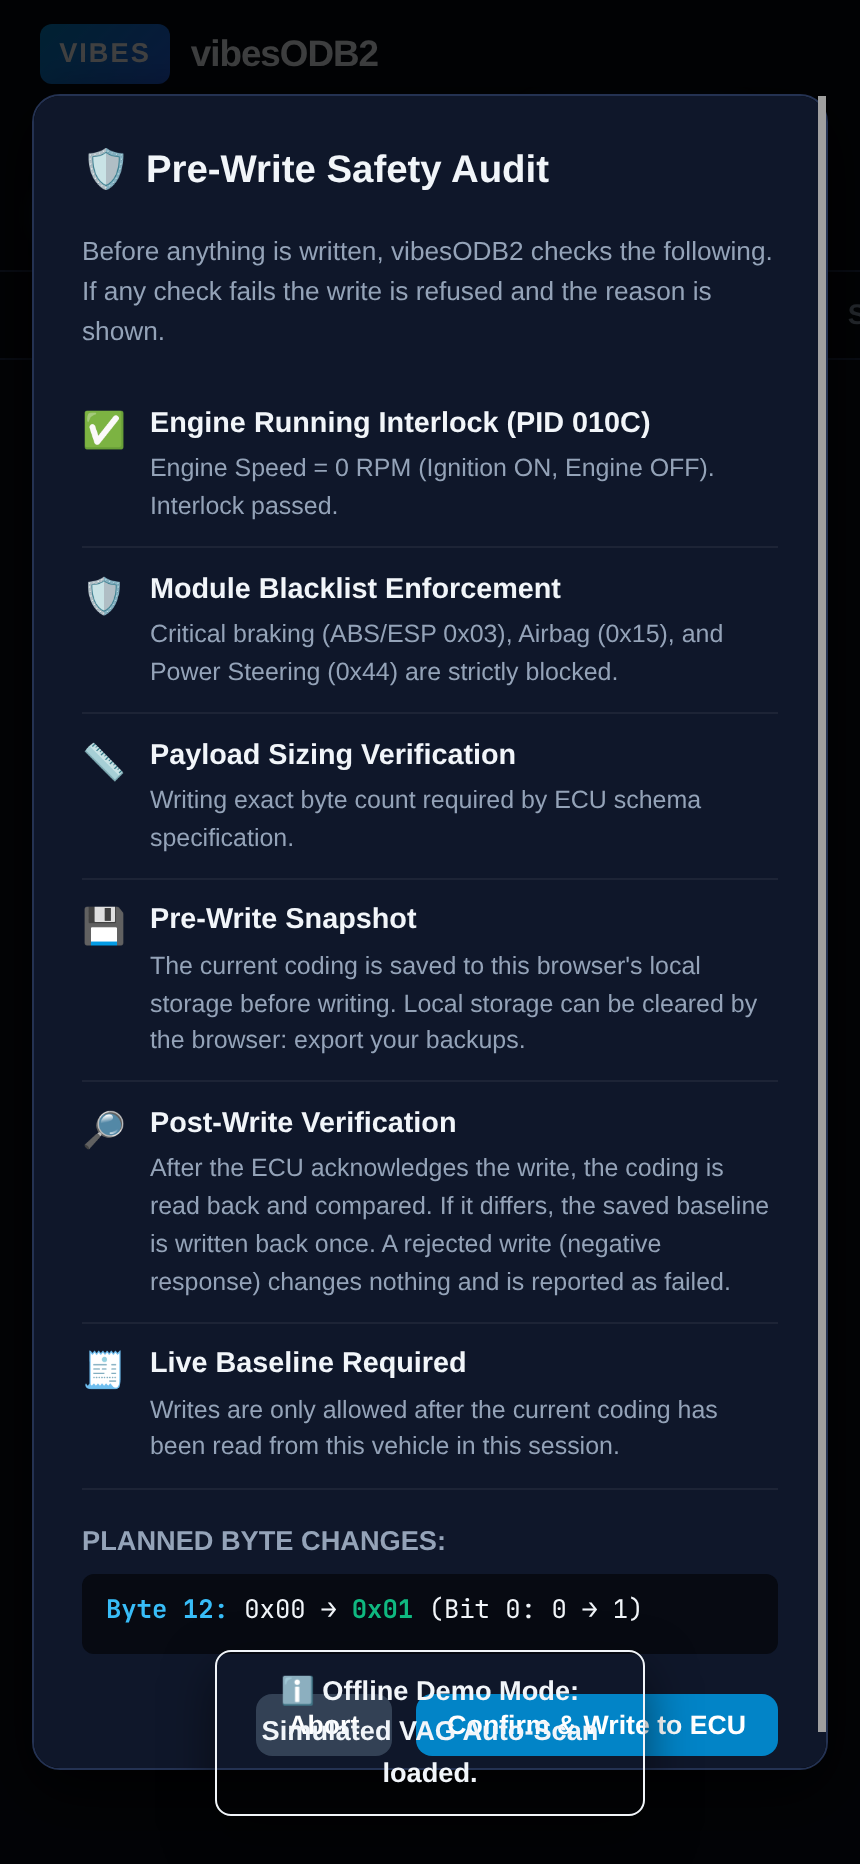
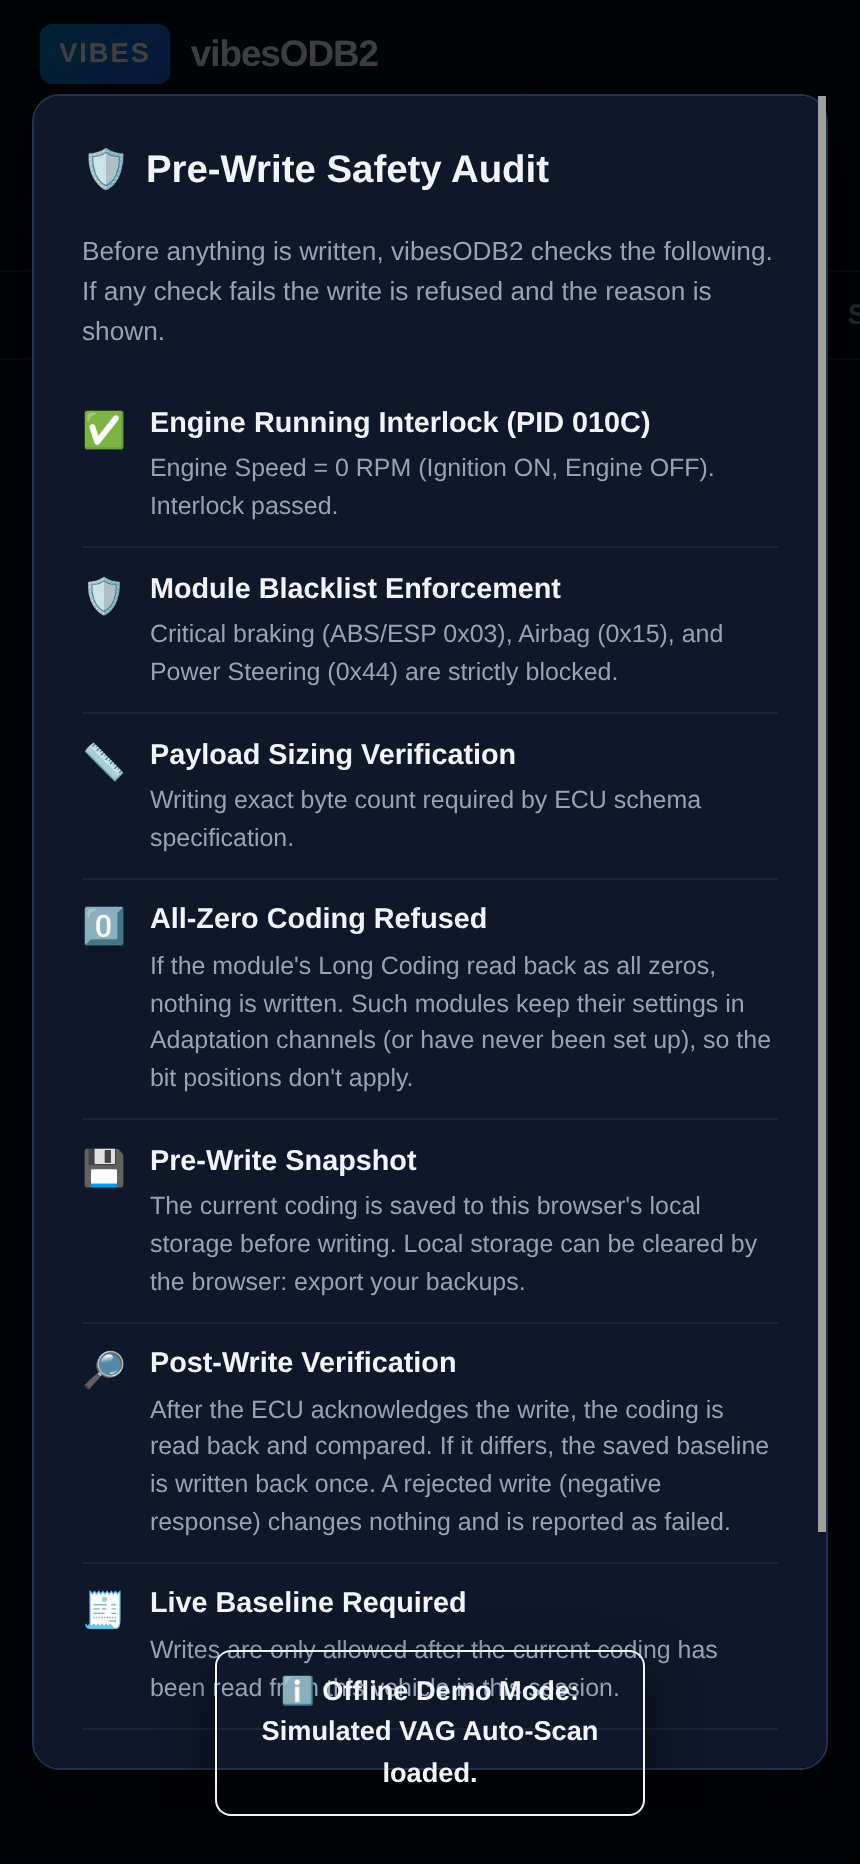
Refuse writes and stop showing features as OFF when Long Coding reads as all zeros
Facelift MQB central electrics modules (and never-configured replacement modules)
return an all-zero 0x0600 block because their settings are held in Adaptation
channels. The Feature Coding tab showed every feature as Disabled, which was not
true, and toggles would have attempted a bit write against a meaningless baseline.

- safety.js / guardrails.py: new non-zero baseline check (AllZeroBaselineError)
- app.js: isAdaptationOnlyBaseline locks writes, shows an explanatory notice
  instead of OFF badges, warns after the read, gates the hex write button
- Safety modal, README and ADVANCED updated; SW cache v28

diff --git a/pwa/js/app.js b/pwa/js/app.js
@@ -259,9 +259,18 @@ class VibesApp {
   //   - ignition is OFF (ECU powered down or sleeping, EEPROM writes will fail or corrupt)
   //   - engine is running (ECU may be in diagnostic lockout, unstable operating conditions)
   //   - ignition state is unknown (no bus ping response yet — treat as unsafe)
+  get isAdaptationOnlyBaseline() {
+    return !!(
+      this.hasCapturedBaseline &&
+      this.baselineBytes &&
+      this.baselineBytes.length > 0 &&
+      this.baselineBytes.every(b => b === 0)
+    );
+  }
+
   get isWritable() {
     const connected = !!(this.bleTransport && this.bleTransport.isConnected);
-    return connected && this.ignitionState === 'on' && this.hasCapturedBaseline;
+    return connected && this.ignitionState === 'on' && this.hasCapturedBaseline && !this.isAdaptationOnlyBaseline;
   }
 
   get isWriteBlockedReason() {
@@ -278,7 +287,10 @@ class VibesApp {
       return 'Ignition state is unknown. Wait for the adapter to detect the vehicle bus, or press "Check Ignition".';
     }
     if (!this.hasCapturedBaseline) {
-      return 'No live coding has been read from this vehicle yet. Tap "Read Live Coding" first so changes are based on the real ECU state.';
+      return 'No live coding has been read from this vehicle yet. Tap "Read Vehicle Long Coding" first so changes are based on the real ECU state.';
+    }
+    if (this.isAdaptationOnlyBaseline) {
+      return 'This module returned an all-zero Long Coding block (0x0600 = 00...00). On facelift VAG modules (such as MY2017+ MQB BCM 0x09), settings live in UDS Adaptation channels rather than Long Coding—writes to 0x0600 are locked.';
     }
     return 'Cannot write: vehicle bus is not responding.';
   }
@@ -2375,6 +2387,11 @@ class VibesApp {
         this.renderBitSwitches();
         this.renderFeatureList();
 
+        if (this.isAdaptationOnlyBaseline) {
+          this.showToast(`⚠ Module ${targetMod} returned ${liveCoding.length} bytes of zeros. Its settings are not stored in Long Coding, so feature states cannot be shown and writing is locked.`, 'warning', 8000);
+          return true;
+        }
+
         const msg = isAutoBaseline 
           ? `🛡 Baseline Snapshot #${backup.id} captured (${liveCoding.length} bytes)! Features synchronized with vehicle.`
           : `✅ Vehicle Long Coding successfully read (${liveCoding.length} bytes)! Features updated.`;
@@ -2574,6 +2591,22 @@ class VibesApp {
       btnUnsupported.style.display = unsupportedCount > 0 ? 'inline-block' : 'none';
     }
     if (bytesLenEl) bytesLenEl.textContent = this.currentBytes.length;
+
+    // An all-zero Long Coding block does not mean every feature is off: on these modules the
+    // settings are held elsewhere (Adaptation channels), so bit positions here say nothing.
+    if (this.isAdaptationOnlyBaseline) {
+      if (countActiveEl) countActiveEl.textContent = '?';
+      if (countInactiveEl) countInactiveEl.textContent = '?';
+      const modAddr = this.currentSchema.module_address || '0x09';
+      container.innerHTML = `
+        <div id="coding-adaptation-only-notice" style="padding: 1rem 1.1rem; border-radius: 8px; background: rgba(245, 158, 11, 0.1); border: 1px solid rgba(245, 158, 11, 0.4); color: #fde68a; font-size: 0.85rem; line-height: 1.5;">
+          <h4 style="margin: 0 0 0.4rem 0; color: #fbbf24; font-size: 0.95rem;">⚠ This module does not use Long Coding for these settings</h4>
+          <p style="margin: 0 0 0.5rem 0;">Module <strong>${modAddr}</strong> answered the Long Coding read with <strong>${this.currentBytes.length} bytes of zeros</strong>. That does not mean your features are switched off. Later modules (for example the central electrics unit on many 2017-onward MQB cars) keep comfort and lighting options in <strong>Adaptation channels</strong> instead, so the byte/bit positions in this schema don't apply.</p>
+          <p style="margin: 0 0 0.5rem 0;">vibesODB2 can't read or change Adaptation channels yet, so feature states are not shown and writing to this module is locked.</p>
+          <p style="margin: 0; color: #cbd5e1; font-size: 0.78rem;">You can check the raw bytes on the Byte Matrix tab. A replacement module that has never been set up can also read as all zeros.</p>
+        </div>`;
+      return;
+    }
 
     let displayFeatures = allFeatures;
     if (this.featureFilter === 'active') {
@@ -2818,6 +2851,10 @@ class VibesApp {
 
     if (applyBtn && rawInput) {
       applyBtn.addEventListener('click', () => {
+        if (!this.isWritable) {
+          this.showToast(this.isWriteBlockedReason, 'warning');
+          return;
+        }
         try {
           const modBytes = hexStringToBytes(rawInput.value);
           if (modBytes.length !== this.currentBytes.length) {

diff --git a/pwa/js/safety.js b/pwa/js/safety.js
@@ -117,6 +117,23 @@ export class SafetyPipeline {
       detail: `Strict size match (${baseBytes} bytes).`
     });
 
+    // Guardrail 3b: Non-Zero Coding Baseline (Adaptation-Only / Unparameterized Interlock)
+    // MY2017+ facelift modules (e.g. MQB BCM 5Q0937084C*/D*) return an all-zero 0x0600 block
+    // because configuration moved to UDS Adaptation channels; virgin replacement ECUs also read
+    // all zeros. Bit-toggling Long Coding against an all-zero baseline is never valid.
+    const cleanBaseHex = (baselineHex || '').replace(/\s+/g, '');
+    if (cleanBaseHex.length > 0 && /^0+$/.test(cleanBaseHex)) {
+      return fail(
+        'Non-Zero Coding Baseline',
+        'Adaptation-Only / All-Zero Coding Interlock: Module returned an all-zero Long Coding block (0x0600 = 00...00). On facelift VAG modules (such as MY2017+ MQB BCM 0x09), settings live in UDS Adaptation channels rather than Long Coding; writes to an all-zero coding block are refused.'
+      );
+    }
+    auditReport.checks.push({
+      name: 'Non-Zero Coding Baseline',
+      passed: true,
+      detail: 'Module reports active non-zero Long Coding.'
+    });
+
     // Guardrail 4: Mandatory Snapshot Table Record
     try {
       const backup = await saveBackup({

diff --git a/pwa/index.html b/pwa/index.html
@@ -623,6 +623,14 @@
       </div>
 
       <div class="check-item">
+        <div class="check-icon">0⃣</div>
+        <div class="check-text">
+          <h5>All-Zero Coding Refused</h5>
+          <p>If the module's Long Coding read back as all zeros, nothing is written. Such modules keep their settings in Adaptation channels (or have never been set up), so the bit positions don't apply.</p>
+        </div>
+      </div>
+
+      <div class="check-item">
         <div class="check-icon">💾</div>
         <div class="check-text">
           <h5>Pre-Write Snapshot</h5>

diff --git a/pwa/sw.js b/pwa/sw.js
@@ -1,5 +1,5 @@
 // vibesODB2 Service Worker for Offline PWA Support
-const CACHE_NAME = 'vibesodb2-v27';
+const CACHE_NAME = 'vibesodb2-v28';
 const STATIC_ASSETS = [
   './',
   './index.html',

diff --git a/vibesodb2/safety/guardrails.py b/vibesodb2/safety/guardrails.py
@@ -44,6 +44,11 @@ class PayloadLengthMismatchError(SafetyViolationError):
     pass
 
 
+class AllZeroBaselineError(SafetyViolationError):
+    """Raised when attempting to write bit-toggled Long Coding to an all-zero (Adaptation-only or virgin) baseline."""
+    pass
+
+
 class WriteVerificationError(SafetyViolationError):
     """Raised when the coding read back after a write does not match what was written."""
 
@@ -111,6 +116,22 @@ class SafetyEngine:
             logger.critical(msg)
             raise PayloadLengthMismatchError(msg)
 
+    def validate_non_zero_baseline(self, original: bytes) -> None:
+        """
+        Guardrail 4b: Non-Zero Coding Baseline.
+        MY2017+ facelift VAG modules (such as MQB BCM 5Q0937084C*/D*) return an all-zero 0x0600
+        block because configuration moved to UDS Adaptation channels; virgin replacement ECUs also
+        read all zeros. Bit-toggling Long Coding against an all-zero baseline is refused.
+        """
+        if len(original) > 0 and all(b == 0 for b in original):
+            msg = (
+                "ALL-ZERO CODING INTERLOCK: Module returned an all-zero Long Coding block (00...00). "
+                "On facelift VAG modules (such as MY2017+ MQB BCM 0x09), settings live in UDS Adaptation "
+                "channels rather than Long Coding; writes to an all-zero coding block are refused."
+            )
+            logger.critical(msg)
+            raise AllZeroBaselineError(msg)
+
     def execute_prewrite_backup(
         self,
         vin: str,
@@ -150,11 +171,11 @@ class SafetyEngine:
         skip_engine_check: bool = False,
     ) -> CodingBackup:
         """
-        Executes the complete 5-point safety writing pipeline:
+        Executes the complete safety writing pipeline:
         1. Module blacklist check
         2. Engine-off verification
-        3. Mandatory SQLite backup snapshot
-        4. Strict length consistency check
+        3. Strict length consistency & non-zero baseline check
+        4. Mandatory SQLite backup snapshot
         5. Write execution with read-back verification (baseline restored once on mismatch)
         """
         # 1. Module blacklist
@@ -164,8 +185,9 @@ class SafetyEngine:
         if not skip_engine_check:
             await self.validate_engine_off(uds_client.adapter)
 
-        # 3. Length check
+        # 3. Length & non-zero baseline check
         self.validate_payload_length(original_bytes, modified_bytes)
+        self.validate_non_zero_baseline(original_bytes)
 
         # 4. Mandatory snapshot
         backup = self.execute_prewrite_backup(

diff --git a/tests/test_safety.py b/tests/test_safety.py
@@ -192,3 +192,39 @@ async def test_readback_mismatch_restores_baseline_and_raises():
             assert len(writes) == 2, "one write plus one baseline restore"
             assert writes[-1].upper().endswith(orig.hex().upper())
         await transport.disconnect()
+
+
+@pytest.mark.asyncio
+async def test_all_zero_baseline_is_refused_before_any_write():
+    """MY2017+ facelift MQB BCMs (e.g. 5Q0937084C*/D*) and virgin ECUs return an all-zero
+    0x0600 coding block because settings live in Adaptation channels; bit-toggling Long Coding
+    against an all-zero baseline must be refused before any 2E write frame leaves the adapter."""
+    from vibesodb2.safety.guardrails import AllZeroBaselineError
+
+    with tempfile.TemporaryDirectory() as tmpdir:
+        safety = SafetyEngine(storage=StorageManager(db_path=Path(tmpdir) / "zero.db"))
+        transport = MockTransport()
+        await transport.connect()
+        adapter = ELM327Adapter(transport)
+        await adapter.initialize()
+        await adapter.set_module_address(0x09)
+        uds = UDSClient(adapter)
+        async with uds:
+            zero_orig = bytes(30)
+            mod = bytearray(30)
+            mod[11] = 0x04
+
+            with pytest.raises(AllZeroBaselineError):
+                await safety.execute_safe_write(
+                    uds,
+                    0x09,
+                    DID_BCM_LONG_CODING,
+                    zero_orig,
+                    bytes(mod),
+                    vin="WVWZZZAUZJP000001",
+                    skip_engine_check=True,
+                )
+
+            assert _sent_writes(transport) == [], "must never send 2E when baseline is all zeros"
+        await transport.disconnect()
+

diff --git a/vibesodb2/safety/__init__.py b/vibesodb2/safety/__init__.py
@@ -14,6 +14,7 @@ from vibesodb2.safety.guardrails import (
     BlacklistedModuleError,
     EngineRunningInterlockError,
     PayloadLengthMismatchError,
+    AllZeroBaselineError,
     BLACKLISTED_MODULES,
 )
 
@@ -32,5 +33,6 @@ __all__ = [
     "BlacklistedModuleError",
     "EngineRunningInterlockError",
     "PayloadLengthMismatchError",
+    "AllZeroBaselineError",
     "BLACKLISTED_MODULES",
 ]

diff --git a/ADVANCED.md b/ADVANCED.md
@@ -104,7 +104,7 @@ Every long-coding write goes through one function: `executeCodingWrite` in `pwa/
 1. **Live baseline required** (PWA): the coding must have been read from this vehicle in this session. The bundled demo coding can never be written.
 2. **Critical module blacklist**: long-coding writes (`0x2E`) to `0x03` ABS/ESP, `0x15` airbag and `0x44` steering are rejected. Module addresses are normalised first, so `03`, `0X03` and `0x03` are all caught. *(DTC reading and clearing via `0x19`/`0x14` is permitted on all modules.)*
 3. **Ignition and engine interlock**: the RX filter is cleared and `01 0C` is requested on the functional `7DF` header. No reply, an unparseable reply, or RPM above zero blocks the write.
-4. **Strict payload length**: the modified payload must be exactly as long as the baseline.
+4. **Strict payload length and non-zero baseline**: the modified payload must be exactly as long as the baseline, and a baseline that is entirely `0x00` is refused (`AllZeroBaselineError` in the CLI). Modules that keep their configuration in Adaptation channels (for example many 2017-onward MQB central electrics units) and never-configured replacement modules return an all-zero coding block; the PWA shows a notice instead of reporting every feature as off.
 5. **Pre-write snapshot**: the baseline is stored in IndexedDB (browser) or SQLite (CLI) before anything is sent.
 6. **Re-target and write**: the adapter is re-addressed to the target module (`ATSH`/`ATCRA`/flow control) because the interlock left it on `7DF`; the extended session is opened; `0x2E` is sent and must be acknowledged with `0x6E <DID>`.
 7. **Read-back verification**: the identifier is read back and compared byte for byte. On mismatch the baseline is written back once and the result, including whether the restore was acknowledged, is reported.

diff --git a/README.md b/README.md
@@ -54,6 +54,7 @@ Before any coding write the app runs these checks and refuses the write if any f
 2. **Module blacklist.** ABS/ESP (`0x03`), airbag (`0x15`) and power steering (`0x44`) are never write targets.
 3. **Ignition on, engine off.** Engine speed is requested over the standard OBD broadcast; a non-zero or unreadable reply blocks the write.
 4. **Length check.** The new payload must be exactly as long as the one read from the module.
+   **All-zero coding is refused.** If the module's Long Coding reads back as all zeros, nothing is written and feature states are not shown. Many later modules (for example the central electrics unit on 2017-onward MQB cars) keep their settings in Adaptation channels, which this app does not read or write yet.
 5. **Snapshot.** The current coding is saved locally first.
 6. **Positive response and read-back.** After the adapter is re-addressed to the target module, the write must be acknowledged with `6E <DID>`, then the identifier is read back and compared. If the read-back differs, the saved baseline is written back once and the result is reported. A rejected write (negative response) changes nothing on the vehicle and is reported as failed.
 
